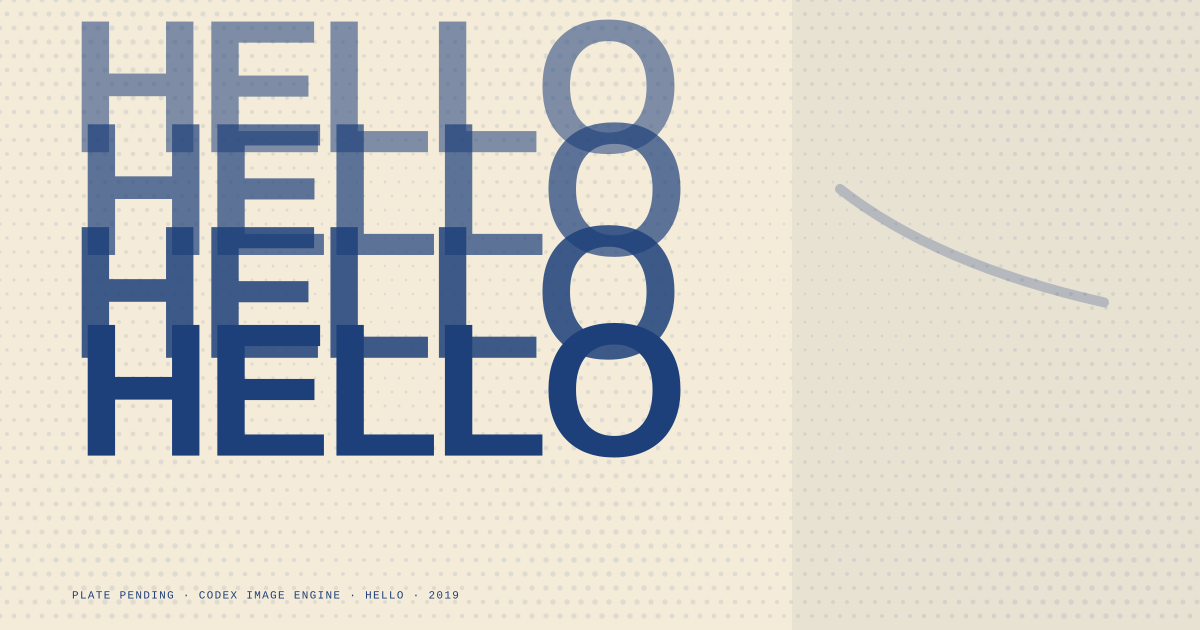
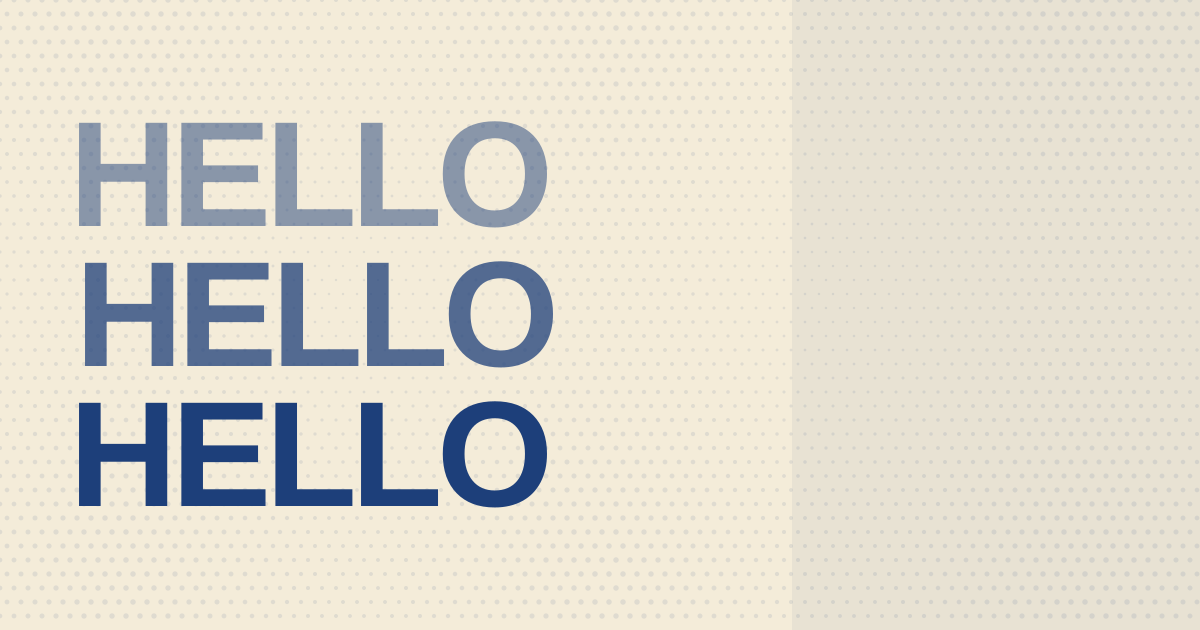
faucet: clean and fish placeholder plates; Codex brief asks for both
The stray palm-frond stroke is gone. Two placeholder variants now: the
clean plate the page uses, and a fish variant, each with webp and OG
crops, with proper row spacing so the OG no longer stacks. The Codex
brief asks for both plates through ChatGPT's image model per Mike.

Claude-Session: https://claude.ai/code/session_01EK9Uih12hsgDLszSwCppZb

diff --git a/docs/briefs/2026-09-04-codex-hello-faucet.md b/docs/briefs/2026-09-04-codex-hello-faucet.md
@@ -11,7 +11,7 @@
 
 Two jobs, in this order.
 
-1. **One poster plate for HELLO.** Replace the placeholder at `public/images/faucet/hello-poster.png` (+ `.webp`, + the 1200×630 `hello-og.png`) with an original plate from the poster-image-engine. Direction from Mike: positive, Hockney-and-Warhol HELLO, a little Degas, finished monochrome.
+1. **Two poster plates for HELLO, through ChatGPT's image model.** Mike's later note: *"use chatgpt image generator"*, and *"lets make one with a fish in it, and a clean one."* Replace the placeholders at `public/images/faucet/hello-poster.png` (clean) and `hello-poster-fish.png` (one fish in the quiet right third), each with a `.webp` twin and a 1200×630 OG crop (`hello-og.png`, `hello-og-fish.png`). Direction from Mike: positive, Hockney-and-Warhol HELLO, a little Degas, finished monochrome. cc's attempt through Krea's gpt-image-2 ran out of balance mid-run; if two HELLO plates appear in Mike's Krea history from 2026-09-04, they are those runs and can be used if they pass review.
 2. **Review the faucet code** before Mike funds the spigot wallet. It is a hot wallet that sends a real ERC-20 on Ethereum mainnet from a Cloudflare Pages Function. Nothing ships to mainnet until you have read it.
 
 ## Job 1 — the plate
